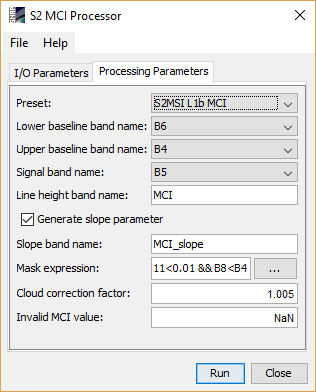
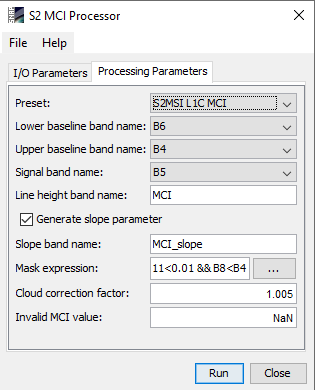
[SIITBX-321] Help of S2 MCI processor needs update regarding presets
(cherry picked from commit be55fb9a65e1d7cd68cfce522bd81c8987407e04)

Changed region(s): [[0.0, 0.0, 1.0, 1.0], [0.1143, 0.0923, 0.2286, 0.1231], [0.9143, 0.0, 0.9429, 0.0308]]

diff --git a/s2tbx-s2msi-mci-ui/src/main/resources/org/esa/s2tbx/processor/mci/docs/mci/MciProcessorDescription.html b/s2tbx-s2msi-mci-ui/src/main/resources/org/esa/s2tbx/processor/mci/docs/mci/MciProcessorDescription.html
@@ -88,7 +88,7 @@
     Available presets are:
 </p>
 <dl class="i1">
-    <dt><b>S2MSI L1B MCI</b></dt>
+    <dt><b>S2MSI L1C MCI</b></dt>
     <dd>S2 MSI maximum chlorophyll index (lower=B4, upper=B6, signla=B5)</dd>
     <dt><b>S2MSI L2 MCI</b></dt>
     <dd>S2 MSI L2 (sen2cor) maximum chlorophyll index (lower=B4, upper=B6, signla=B5)</dd>

diff --git a/s2tbx-s2msi-mci-ui/src/main/java/org/esa/s2tbx/processor/mci/ui/Presets.java b/s2tbx-s2msi-mci-ui/src/main/java/org/esa/s2tbx/processor/mci/ui/Presets.java
@@ -2,7 +2,7 @@ package org.esa.s2tbx.processor.mci.ui;
 
 enum Presets {
     NONE("None", "", "", "", "", "", ""),
-    S2MSI_L1B_MCI("S2MSI L1c MCI", "B4", "B6", "B5", "MCI", "MCI_slope",
+    S2MSI_L1C_MCI("S2MSI L1C MCI", "B4", "B6", "B5", "MCI", "MCI_slope",
                   "B11<0.01 && B8<B4"),
     S2MSI_L2_MCI("S2MSI L2 MCI", "B4", "B6", "B5", "MCI", "MCI_slope",
                  "scl_water");
